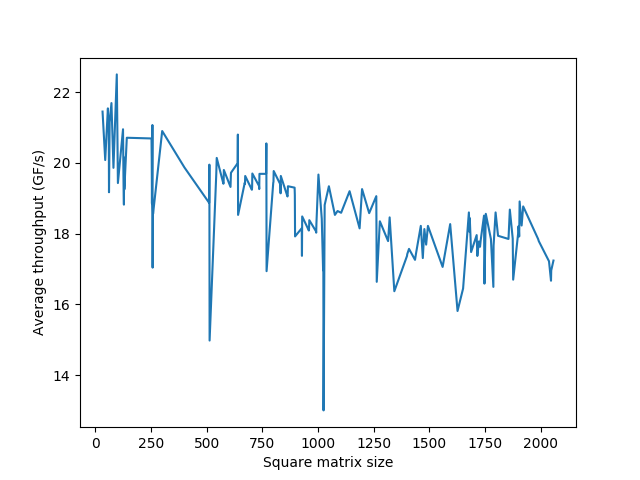
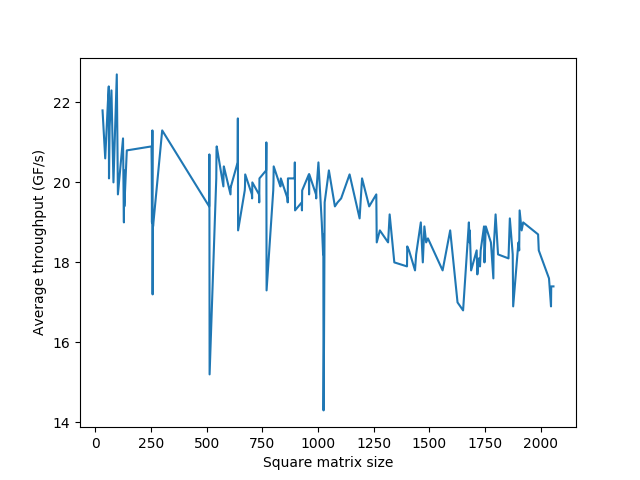
change mean to max out of 10 tests

diff --git a/data/visualize.py b/data/visualize.py
@@ -8,14 +8,14 @@ import numpy as np
 N = 10
 data = defaultdict(list)
 for i in range(N):
-    with open('data%d-3x12_D-30-36-32-60-108-96-840-1512-1344.txt' % i) as input:
+    with open('data%d-3x12-30-36-32-60-108-96-840-1512-1344.txt' % i) as input:
         reader = csv.reader(input, delimiter='\t')
         for row in reader:
             data[int(row[0])].append(float(row[1]))
 
-labels, values = data.keys(), [np.mean(x) for x in data.values()]
+labels, values = data.keys(), [np.max(x) for x in data.values()]
 labels, values = zip(*sorted(zip(labels, values)))
 plt.plot(labels, values)
 plt.xlabel('Square matrix size')
 plt.ylabel('Average throughput (GF/s)')
-plt.savefig('data_D.png')
+plt.savefig('data.png')
